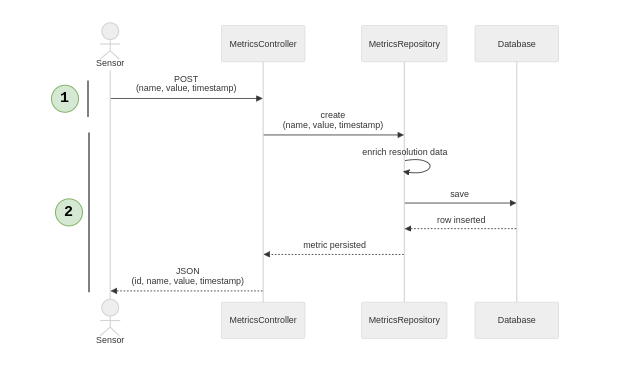
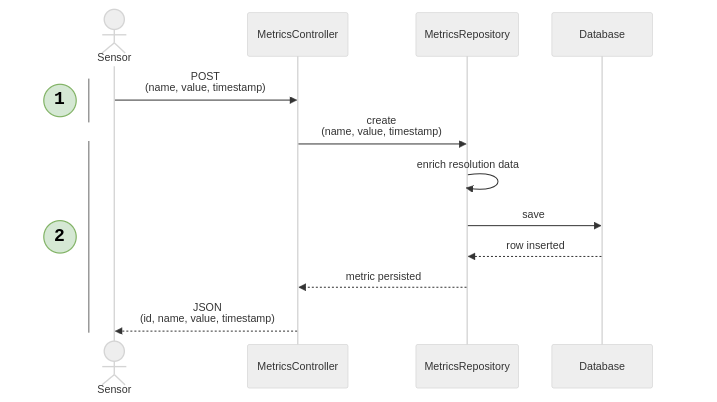
Adjust images of diagrams in README

diff --git a/README.md b/README.md
@@ -39,45 +39,46 @@ This application allows users to post and visualize metrics with a timestamp, na
 
 1. Clone the repository.
 2. Navigate to the project root directory (metrics-app)
-3. (Optional) Generate `package-lock.json` for the frontend:
-
-   ```sh
-   cd metrics-client
-   npm install
-   ```
-4. Build and start the services:
+3. Build and start the services:
    From the root directory of your project, execute:
 
    ```sh
-   docker compose --profile dev up --build
+   docker compose --profile dev up
    ```
-5. Access the application:
+
+4. Access the application:
 - Rails API: http://localhost:3000
 - React App: http://localhost:3001
 
 This setup ensures that both the frontend and backend services run in their own containers, with dependencies managed by Docker, making it easier to develop and deploy the application consistently across different environments.
 
-6. Stop the application:
+5. Stop the application:
 
    ```sh
-   docker compose down
+   ctrl + c
    ```
+
+6. (Optional) Clean the environment:
+   ```sh
+   docker compose --profile dev down -v --rmi local
+   ```
+
 ## How to run the test suite
 
-1. Navigate to the root directory of your Rails application (/metrics-api)
-2. (Optional) Make sure all necessary gems are installed:
+1. Navigate to the project root directory (metrics-app)
+
+2. You can run all the tests in the project with the following command. it make sure all migrations are up to date and the test database is configured correctly:
 
    ```sh
-   bundle install
+   docker compose --profile test up --exit-code-from metrics-api_test
    ```
-3. You can run all the tests in the project with the following command. it make sure all migrations are up to date and
-   the test database is configured correctly:
 
+3. After running the tests, the terminal will display the results, indicating how many tests passed and if there were any failures.
+
+4. (Optional) Clean the test environment:
    ```sh
-   docker compose --profile test up --build --exit-code-from metrics-api_test
+   docker compose --profile test down -v --rmi local
    ```
-4. After running the tests, the terminal will display the results, indicating how many tests passed and if there were
-   any failures.
 
 ## How to generate random data
 
@@ -87,6 +88,8 @@ through the `num_metrics` parameter, the number of metrics to generate.
    ```sh
    curl -X POST http://localhost:3000/metrics/generate_random_data -d "num_metrics=100"
    ```
+
+The request will populate the application with random metrics with name: `cpu`, `mem` and `temp`
 
 ## Decisions and Trade-offs
 
@@ -192,9 +195,25 @@ In order to achieve this incremental behavior in the computation of the aggregat
 
 The current version of the application is a simplification of a more real and more complex scenario in which we could receive a stream of data that would be processed in a data pipeline where the events would reach an intermediate queue with two different purposes, to be persisted in database and be consumed by a processor that would compute the metric aggregation functions on the fly, so that the query service would have this computation available in real time in a much more efficient way.
 
-Below is an architecture diagram of the current scenario with respect to the scenario with the streaming approach:
+Below is an architecture diagram of the more production-ready scenario with the streaming approach:
+
+![Streaming scenario](/documentation/streaming-scenario.png)
+
+1. Metrics ingested via web service are pushed to an intermediate queue
+2. The metrics stream is persisted and processed to compute aggregations
+3. The aggregations result are updated on the fly as new metrics arrive. The metrics aggregation are pre-computed and persisted to improve query performance
+4. The query service retrieves the already pre-computed metrics aggregations searching by metric name, period (minute, hour, day) and a date range
+
+
+On the other hand, in the following architecture diagram we can review the simplified scenario implemented for this assingment. Implementation that relies on the same concepts introduced in the previous alternative, but with some simplifications and trade-offs made:
 
 ![Architecture Diagram](/documentation/architecture-diagram.png)
+
+1. Metrics ingested via web service
+2. Every metric is enriched with time resolution data for every period  (minute, hour, day) and persisted individually. No aggregation is done during ingestion
+3. The query service ask the aggregation service to compute or refresh one specific aggregation, based on the requested metric name and period
+4. The aggregation service keeps track of the already computed aggregations and creates or updates them if new metrics have been received since the last computation
+5. Finally, the required aggregation is up-to-date and can be queried. The computed aggregation is persisted and will be reused by future queries
 
 
 The following sequence diagram reflects low-level details of both the current data ingestion path and the query path, showing how different application components interact with each other:

diff --git a/metrics-client/README.md b/metrics-client/README.md
@@ -5,71 +5,3 @@
 npx create-react-app metrics-client
 ```
 - Create Dockerfile to to start serving the development server
-
-
-## Available Scripts
-
-In the project directory, you can run:
-
-### `npm start`
-
-Runs the app in the development mode.\
-Open [http://localhost:3000](http://localhost:3000) to view it in your browser.
-
-The page will reload when you make changes.\
-You may also see any lint errors in the console.
-
-### `npm test`
-
-Launches the test runner in the interactive watch mode.\
-See the section about [running tests](https://facebook.github.io/create-react-app/docs/running-tests) for more information.
-
-### `npm run build`
-
-Builds the app for production to the `build` folder.\
-It correctly bundles React in production mode and optimizes the build for the best performance.
-
-The build is minified and the filenames include the hashes.\
-Your app is ready to be deployed!
-
-See the section about [deployment](https://facebook.github.io/create-react-app/docs/deployment) for more information.
-
-### `npm run eject`
-
-**Note: this is a one-way operation. Once you `eject`, you can't go back!**
-
-If you aren't satisfied with the build tool and configuration choices, you can `eject` at any time. This command will remove the single build dependency from your project.
-
-Instead, it will copy all the configuration files and the transitive dependencies (webpack, Babel, ESLint, etc) right into your project so you have full control over them. All of the commands except `eject` will still work, but they will point to the copied scripts so you can tweak them. At this point you're on your own.
-
-You don't have to ever use `eject`. The curated feature set is suitable for small and middle deployments, and you shouldn't feel obligated to use this feature. However we understand that this tool wouldn't be useful if you couldn't customize it when you are ready for it.
-
-## Learn More
-
-You can learn more in the [Create React App documentation](https://facebook.github.io/create-react-app/docs/getting-started).
-
-To learn React, check out the [React documentation](https://reactjs.org/).
-
-### Code Splitting
-
-This section has moved here: [https://facebook.github.io/create-react-app/docs/code-splitting](https://facebook.github.io/create-react-app/docs/code-splitting)
-
-### Analyzing the Bundle Size
-
-This section has moved here: [https://facebook.github.io/create-react-app/docs/analyzing-the-bundle-size](https://facebook.github.io/create-react-app/docs/analyzing-the-bundle-size)
-
-### Making a Progressive Web App
-
-This section has moved here: [https://facebook.github.io/create-react-app/docs/making-a-progressive-web-app](https://facebook.github.io/create-react-app/docs/making-a-progressive-web-app)
-
-### Advanced Configuration
-
-This section has moved here: [https://facebook.github.io/create-react-app/docs/advanced-configuration](https://facebook.github.io/create-react-app/docs/advanced-configuration)
-
-### Deployment
-
-This section has moved here: [https://facebook.github.io/create-react-app/docs/deployment](https://facebook.github.io/create-react-app/docs/deployment)
-
-### `npm run build` fails to minify
-
-This section has moved here: [https://facebook.github.io/create-react-app/docs/troubleshooting#npm-run-build-fails-to-minify](https://facebook.github.io/create-react-app/docs/troubleshooting#npm-run-build-fails-to-minify)
